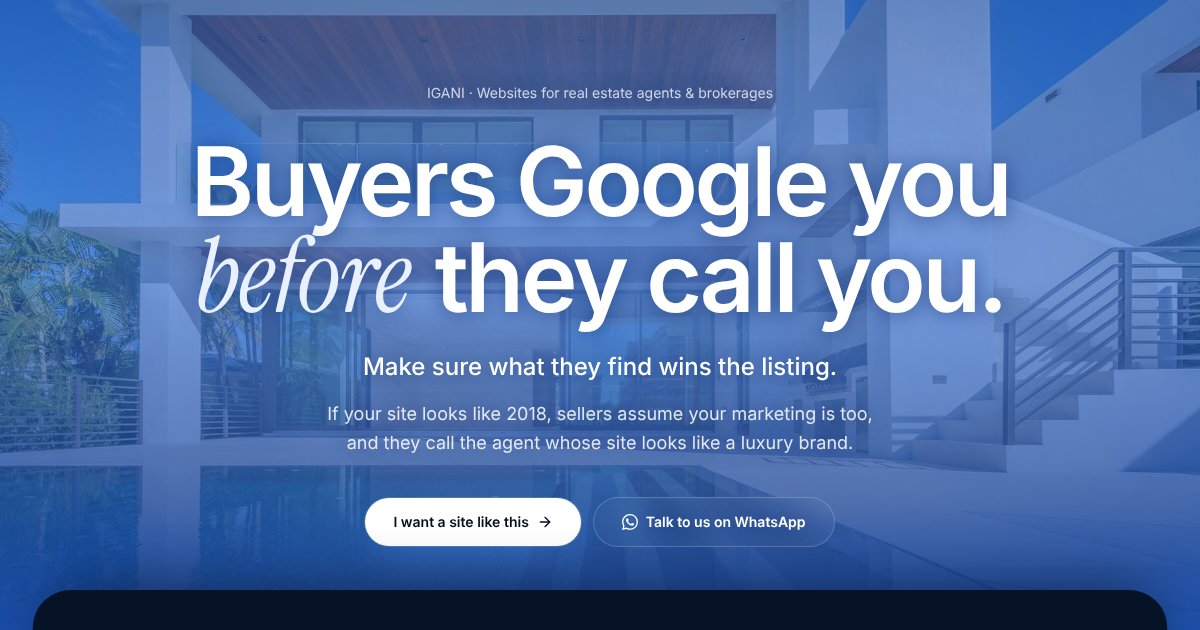
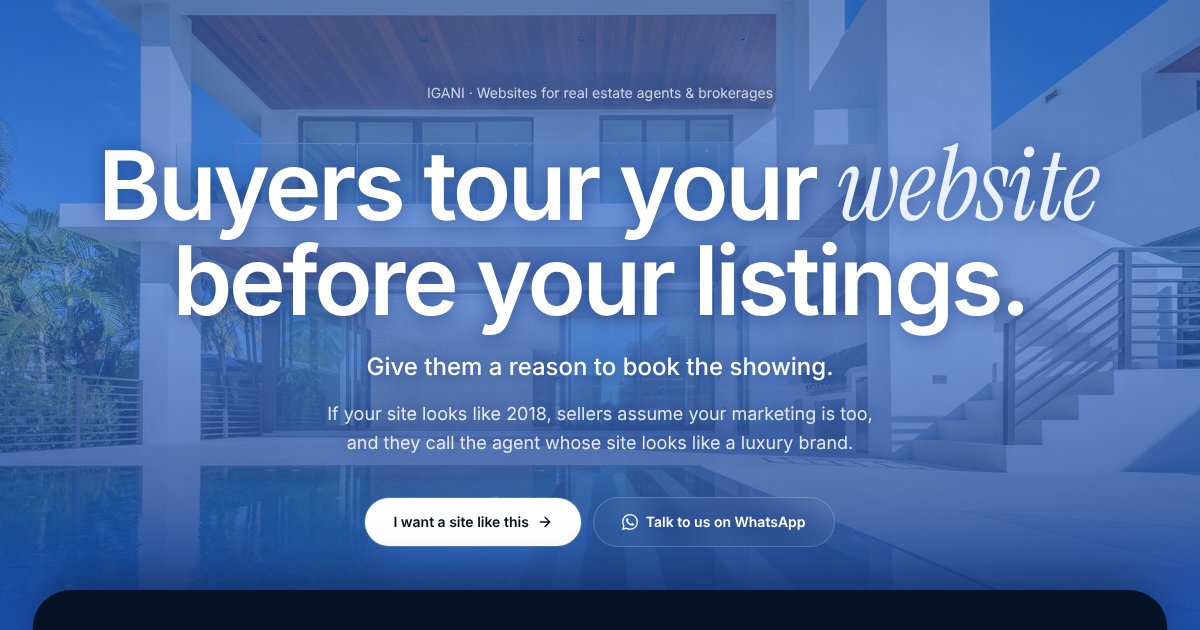
Real estate hero: "Buyers tour your website before your listings."
New subline "Give them a reason to book the showing."; share text and
share image updated to match.

Claude-Session: https://claude.ai/code/session_014zaGJzbMyCr4BvfJ5HSRpv

Changed region(s): [[0.0617, 0.2111, 0.925, 0.6032]]

diff --git a/app/realestate/layout.tsx b/app/realestate/layout.tsx
@@ -2,7 +2,7 @@ import type { Metadata } from 'next'
 
 const TITLE = 'IGANI | Websites for Real Estate Agents'
 const DESCRIPTION =
-  'Buyers Google you before they call you. Websites that win the listing: home valuation and showing-request forms that send leads to your CRM, Matterport 3D tours, and a brand that’s yours.'
+  'Buyers tour your website before your listings. Websites that win the listing: home valuation and showing-request forms that send leads to your CRM, Matterport 3D tours, and a brand that’s yours.'
 
 // The social tags are set here too: without them Facebook and X show the main site's title and description
 export const metadata: Metadata = {
@@ -15,7 +15,7 @@ export const metadata: Metadata = {
     url: '/realestate',
     siteName: 'IGANI',
     type: 'website',
-    images: [{ url: '/og/realestate.jpg', width: 1200, height: 630, alt: 'Buyers Google you before they call you. Websites for real estate agents by IGANI' }],
+    images: [{ url: '/og/realestate.jpg', width: 1200, height: 630, alt: 'Buyers tour your website before your listings. Websites for real estate agents by IGANI' }],
   },
   twitter: {
     card: 'summary_large_image',

diff --git a/app/components/realestate/Hero.tsx b/app/components/realestate/Hero.tsx
@@ -28,14 +28,14 @@ export function Hero({ onCta }: { onCta: () => void }) {
 
         <FocusIn>
           <h1 className="text-balance text-[clamp(2.6rem,8vw,6.5rem)] font-semibold leading-[0.96] tracking-[-0.035em] text-white">
-            Buyers Google you{' '}
-            <span className="font-display pr-[0.04em] text-[1.08em] font-normal text-[#e9f0ff]">before</span> they call you
+            Buyers tour your{' '}
+            <span className="font-display pr-[0.04em] text-[1.08em] font-normal text-[#e9f0ff]">website</span> before your listings
             <span className="text-white">.</span>
           </h1>
         </FocusIn>
 
         <motion.p {...fadeUp(1.0)} className="!mt-6 text-xl font-medium text-white sm:text-2xl">
-          Make sure what they find wins the listing.
+          Give them a reason to book the showing.
         </motion.p>
         <motion.p {...fadeUp(1.15)} className="!mt-4 max-w-xl text-lg leading-relaxed text-white/85">
           If your site looks like 2018, sellers assume your marketing is too, and they call the agent whose site looks like a luxury brand.
